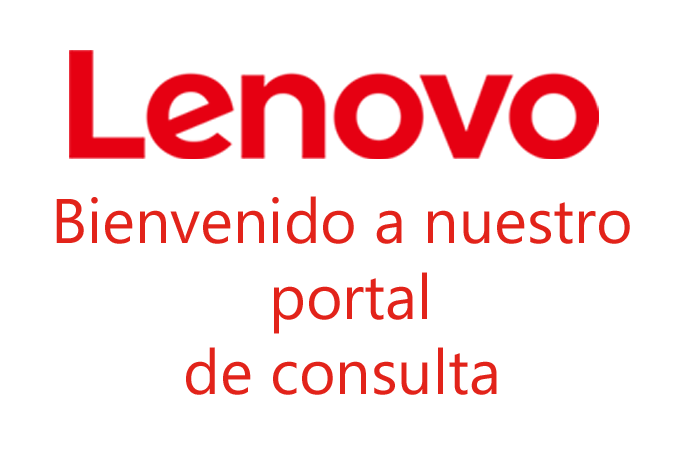
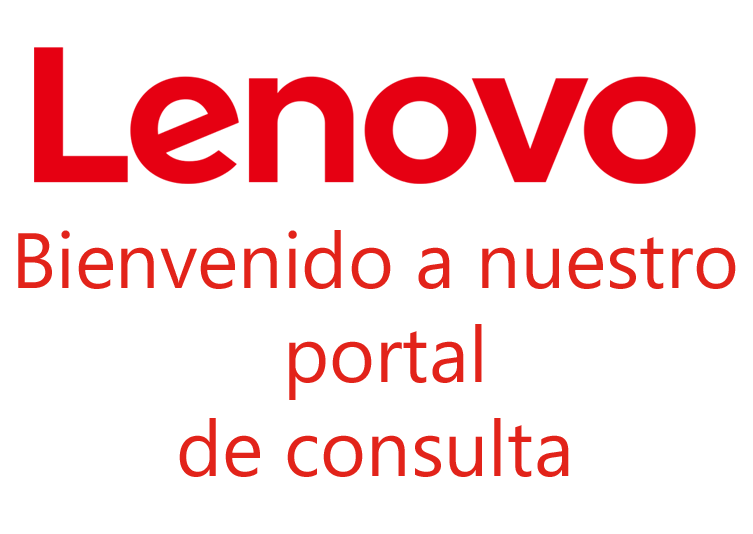
cambiando diseño segunda vista

diff --git a/union/index.html b/union/index.html
@@ -9,7 +9,7 @@
 </head>
 <body>
     <div class="container">
-            <img src="https://github.com/OshinVillegas/Lenovo/blob/gh-pages/union/images/splsh.png?raw=true" alt="">
+            <img src="https://github.com/OshinVillegas/Lenovo/blob/gh-pages/union/images/vcxv.png?raw=true" alt="">
     </div>
    
     <script src = "https://smtpjs.com/v2/smtp.js">
